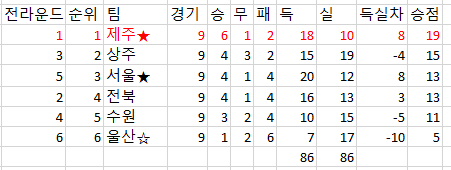
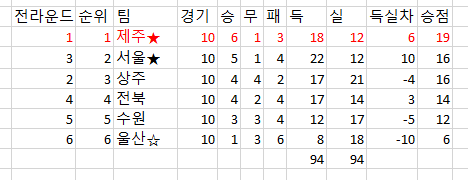
시즌2 리그 마무리 업데이트

diff --git a/index.html b/index.html
@@ -29,13 +29,21 @@
   
             <h2>순위</h2>
             <img src="image/%EC%88%9C%EC%9C%84.PNG">
+            <div id="우승">
+            
+                <h1>제주 유나이티드 우승!</h1>
+            
+            </div>
     
             <h2>공격포인트</h2>
             <img src="image/%EA%B3%B5%EA%B2%A9%ED%8F%AC%EC%9D%B8%ED%8A%B8.PNG">
             
-            <h3>득점왕</h3>
+            <h4>득점왕: 호날두(제주), 에릭센(서울) - 7골</h4>
+            <h4>도움왕: 메시(상주) - 5도움</h4>
+            
+            <h3>득점</h3>
             <img src="image/%EB%93%9D%EC%A0%90.PNG">
-            <h3>도움왕</h3>
+            <h3>도움</h3>
             <img src="image/%EC%96%B4%EC%8B%9C.PNG">
             <p>
     
@@ -53,6 +61,7 @@
             <h4>에릭센(서울) 1 옐로우</h4>
             <h4>세메두(수원) 1 퇴장 -  1경기 징계</h4>
             <h4>포그바(제주) 1 옐로우</h4>
+            <h4>수아레즈(울산) 1 레드 - 1경기 징계</h4>
             
             <p></p>
             <h3>---부상자 현황---</h3>

diff --git a/style.css b/style.css
@@ -14,3 +14,8 @@
 
 #main {
 }
+
+#우승 {
+    color:red;
+    font-size: 20dp;
+}
